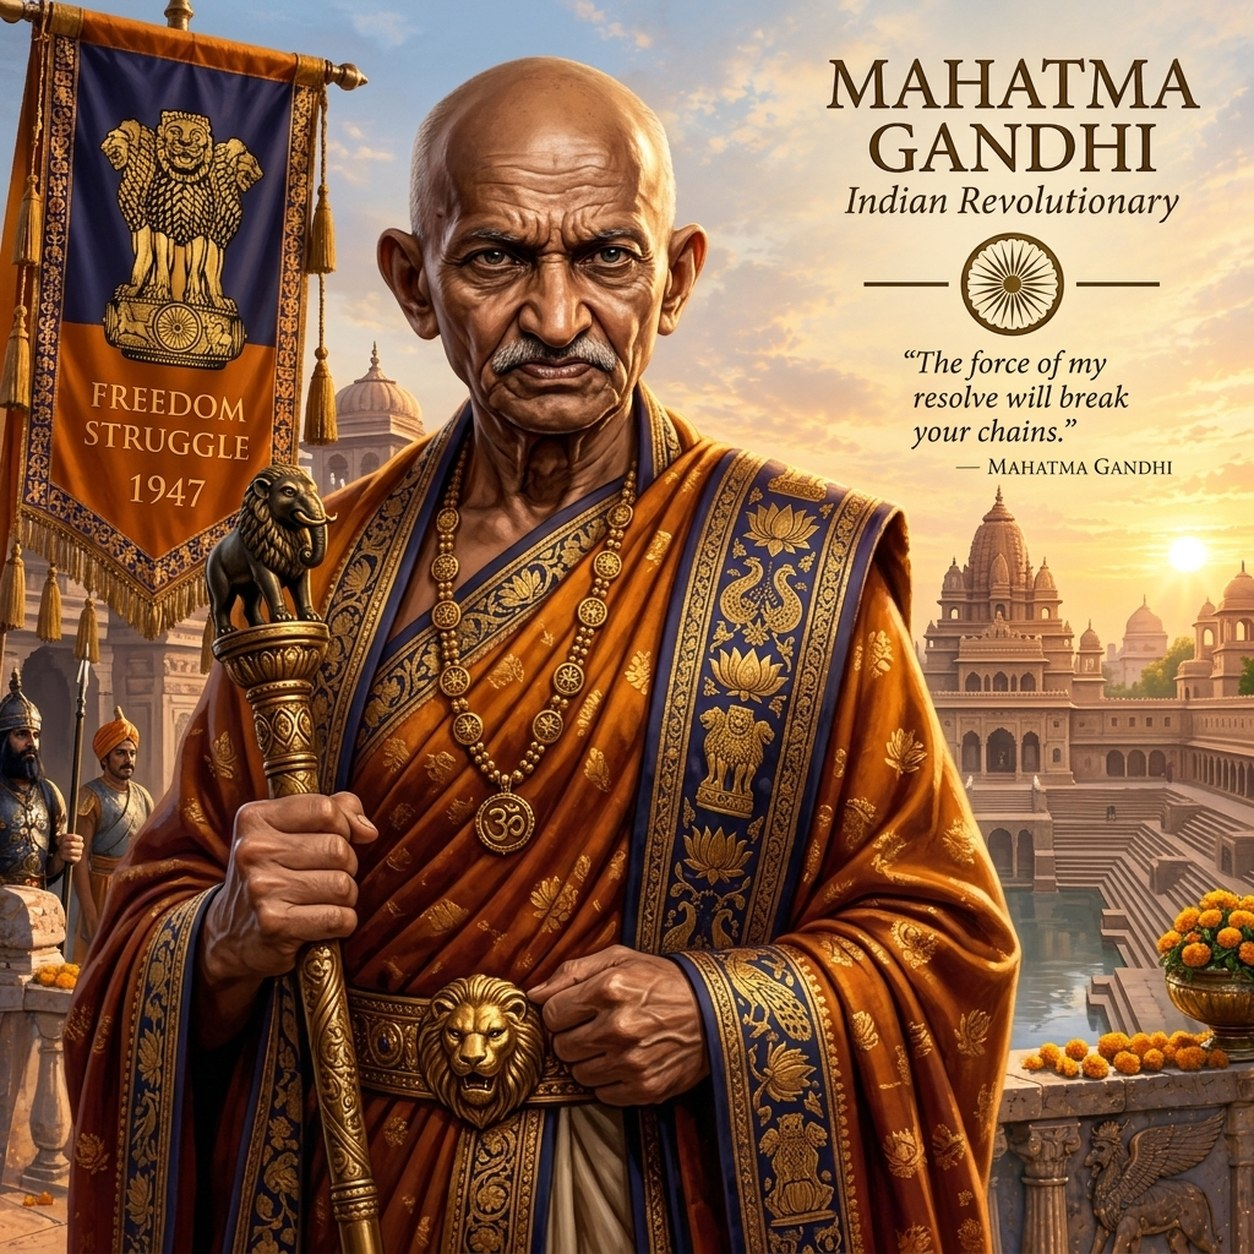
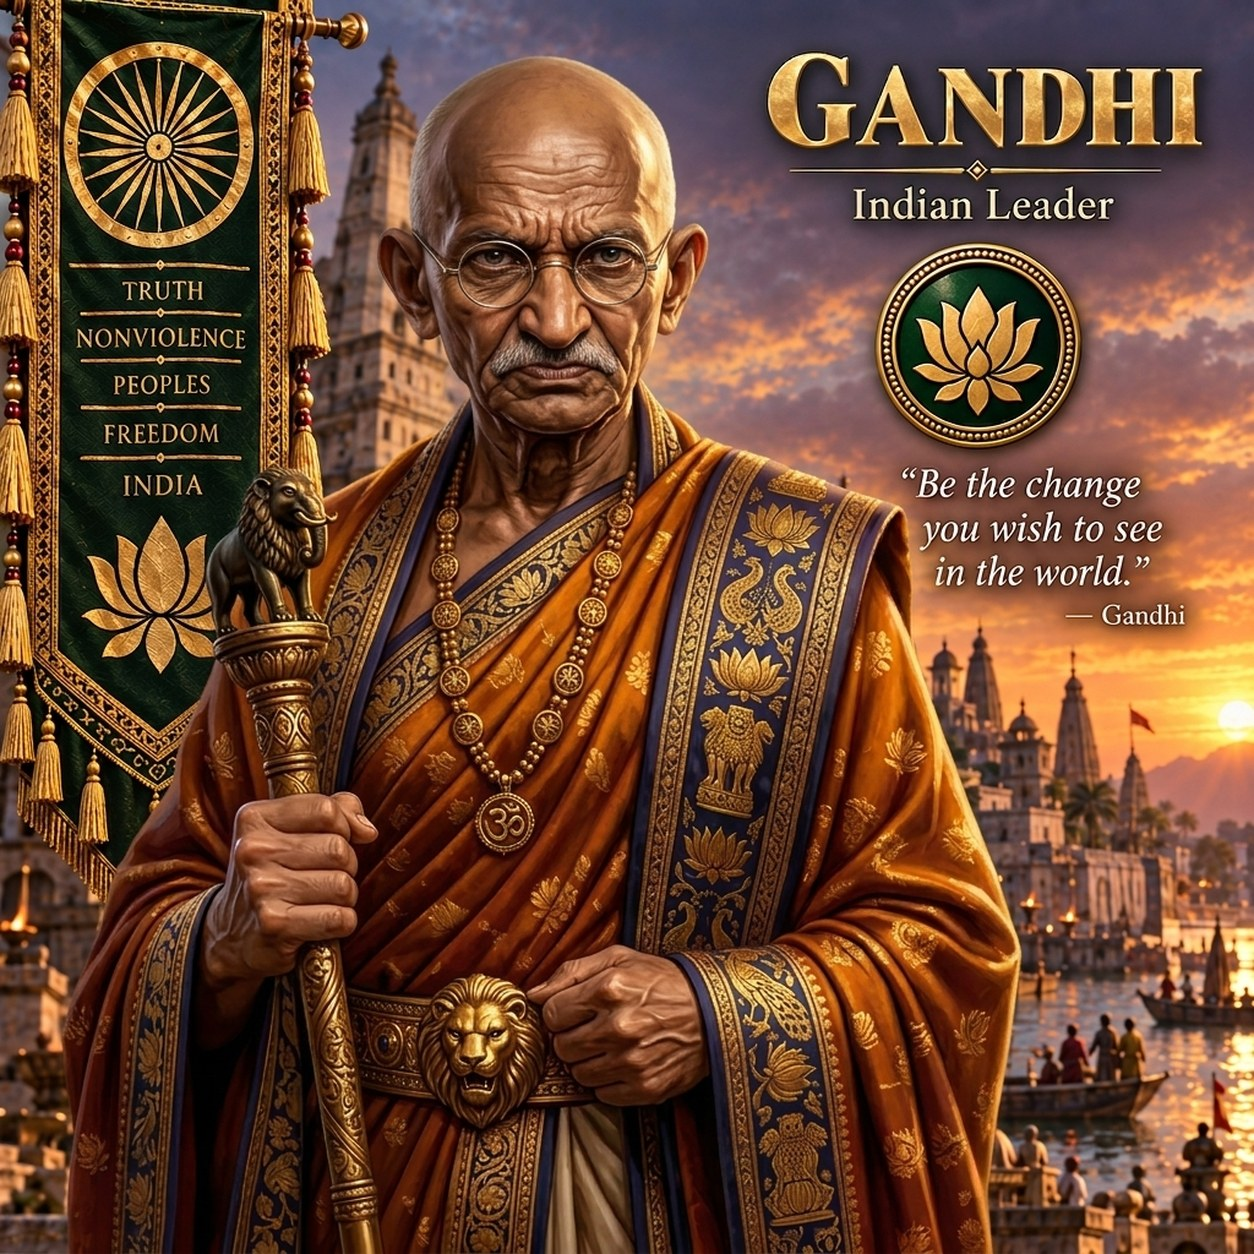
The specials table is closed, and Gandhi joins the others
Six more Civilopedia pages -- Buffalo, the grassland shield, Gold, Iron, Furs and
Icy Oil -- and every one of them agrees with the ruleset. With those, every
special Civ II has a page for has been checked against the game's own statement
of it, and Whales remains the only wrong figure the table ever held.

That leaves one entry with no page to find, which is the answer rather than a
gap. `Bonus` is not a Civ II resource. Civ II gives every terrain two special
slots and grassland has only one real special -- the shield, which the table
calls Resources -- so `Bonus` is the name this ruleset gives the leftover slot;
`SpecialType` is franker, calling the pair Grassland1 and Grassland2. Its figures
are plain grassland, so it adds nothing, which is what an unused slot should do.
Worth writing down because it means the grassland shield comes from neither
special: Civ II fixes which grassland squares carry one by a pattern over the
map's coordinates, and Tile.HasShield does the same.

Gandhi is redrawn to match the others -- the banner, the gold title, the emblem
and the quote that Tomyris and Gunnhild have.

Version 0.1.11, so a local install can be told apart from 0.1.10 in About. The
release entry lists what has landed since: wonders surviving an import, trade
routes paid Civ II's rate, whales worth what they are worth, and diplomacy held
as an audience with the other leader in view.

Claude-Session: https://claude.ai/code/session_01PMe1TCpZKUz78roVaw1GjU

diff --git a/docs/CIV2-COMPARISON.md b/docs/CIV2-COMPARISON.md
@@ -22,7 +22,7 @@ looked at.
 | Rule | Status | How |
 |---|---|---|
 | Terrain yields (all eleven types) | verified | Civilopedia + city screens |
-| Terrain specials | verified except 7 | Civilopedia pages; Buffalo, Resources, Bonus, Gold, Iron, Furs, Icy Oil still unchecked |
+| Terrain specials | verified, complete | every Civilopedia page; Whales was the only wrong figure |
 | City square: free road, auto-irrigate, min 1 shield | verified | Civilopedia, and Maesteg on hills |
 | City square on terrain that can be mined *or* irrigated | verified | Maesteg: irrigated, not mined |
 | Food produced, eaten, surplus, food box | verified | four cities, three governments |
@@ -432,6 +432,12 @@ of those pages settle the table without argument.
 | Spice | Swamp | 3 / 0 / 4 | 3 / 0 / 4 | ✓ |
 | Game (Musk Ox) | Tundra | 3 / 1 / 0 | 3 / 1 / 0 | ✓ |
 | Ivory | Glacier | 1 / 1 / 4 | 1 / 1 / 4 | ✓ |
+| Icy Oil | Glacier | 0 / 4 / 0 | 0 / 4 / 0 | ✓ |
+| Buffalo | Plains | 1 / 3 / 0 | 1 / 3 / 0 | ✓ |
+| Resources | Grassland | 2 / 1 / 0 | 2 / 1 / 0 | ✓ |
+| Gold | Mountains | 0 / 1 / 6 | 0 / 1 / 6 | ✓ |
+| Iron | Mountains | 0 / 4 / 0 | 0 / 4 / 0 | ✓ |
+| Furs | Tundra | 2 / 0 / 3 | 2 / 0 / 3 | ✓ |
 | Fish | Ocean | 3 / 0 / 2 | 3 / 0 / 2 | ✓ |
 | **Whales** | **Ocean** | **2 / 2 / 3** | **was 2 / 1 / 2** | **fixed** |
 
@@ -445,8 +451,23 @@ suspect on a previous pass from recollection alone, as 1/4/0, 3/2/0 and 3/1/0.
 "corrected" without the Civilopedia to check against, three good numbers would
 have been broken to fix one bad one.
 
-Still unchecked in that table, for want of a screenshot: Buffalo, the grassland
-shield (Resources), Bonus, Gold, Iron, Furs and Icy Oil.
+**The table is complete.** Every special Civ II has a Civilopedia page for has
+been checked, and Whales was the only wrong number in it.
+
+The one entry left over is `Bonus`, and it is not a Civ II resource at all — there
+is no Civilopedia page to find, which is the answer rather than a gap. Civ II's
+terrain table gives every terrain **two** special slots, and grassland has only
+one real special: the shield, which the table calls Resources. `Bonus` is the
+name this ruleset gives the leftover second slot, and `SpecialType` is franker
+about it, calling the pair `Grassland1` and `Grassland2`. Its figures — 2 food, 0
+shields, 0 trade — are plain grassland, so the slot adds nothing, which is what an
+unused slot should do.
+
+Worth knowing, because it means the grassland shield does **not** come from that
+special in either game. It comes from the square's coordinates: Civ II fixes which
+grassland squares carry a shield by a pattern over the map, and `Tile.HasShield`
+does the same. The special table entry is the *description* of a shielded square,
+not the thing that makes one.
 
 ### Take the save at the same moment as the screenshot
 
